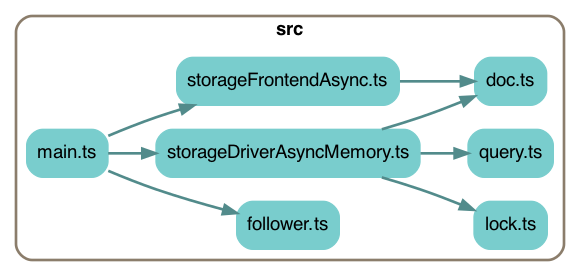
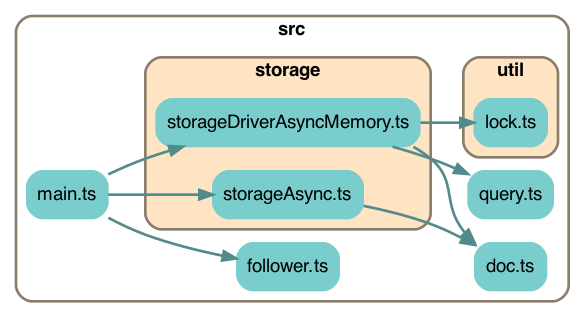
rearrange files into folders; finish renaming frontend to just Storage

diff --git a/src/follower.ts b/src/follower.ts
@@ -7,11 +7,11 @@ import {
 import {
     FollowerState,
     IFollower,
-    IStorageFrontendAsync
+    IStorageAsync
 } from './types/storageTypes';
 import { HistoryMode } from './types/queryTypes';
 
-import { makeDebug } from './log';
+import { makeDebug } from './util/log';
 import chalk from 'chalk';
 let debug = makeDebug(chalk.magentaBright('                  [follower]'));
 let debug2 = (blocking: boolean, ...args: any[]) => {
@@ -42,7 +42,7 @@ is called, and it stays there forever.
 */
 
 export interface FollowerOpts {
-    storageFrontend: IStorageFrontendAsync,
+    storage: IStorageAsync,
     onDoc: SyncOrAsyncCallback<Doc | null>,
     historyMode: HistoryMode,
     batchSize?: number,  // default 20
@@ -66,7 +66,7 @@ export let addFollower = async (opts: FollowerOpts): Promise<Follower> => {
 
 export class Follower implements IFollower {
     _state: FollowerState = 'sleeping';
-    _storageFrontend: IStorageFrontendAsync;
+    _storage: IStorageAsync;
     _onDoc: SyncOrAsyncCallback<Doc | null>;  // null means idle
     _lastProcessedIndex: number = -1;
     _batchSize: number;
@@ -80,15 +80,15 @@ export class Follower implements IFollower {
         //     let myFollower = new Follower({ ... opts ... });
         //     await myFollower.hatch();  // it needs a chance to do some async stuff
 
-        this._storageFrontend = opts.storageFrontend;
+        this._storage = opts.storage;
         this._onDoc = opts.onDoc;
         this._batchSize = opts.batchSize ?? 20;
         this._historyMode = opts.historyMode,
         this.blocking = opts.blocking ?? false;
 
         // Register with the storage.  it will wake us when there's new docs to process.
-        debug2(this.blocking, 'constructor: registering with storageFrontend');
-        this._storageFrontend.followers.add(this);
+        debug2(this.blocking, 'constructor: registering with storage');
+        this._storage.followers.add(this);
 
         // TODO: when adding a follower, it needs to wake up by default
         // so it can catch up, in case it started at zero.
@@ -131,7 +131,7 @@ export class Follower implements IFollower {
 
         // try to get some docs
         debug2(this.blocking, `    getting batch of up to ${this._batchSize} docs`);
-        let docs = await this._storageFrontend.getDocsSinceLocalIndex(this._historyMode, this._lastProcessedIndex + 1, this._batchSize);
+        let docs = await this._storage.getDocsSinceLocalIndex(this._historyMode, this._lastProcessedIndex + 1, this._batchSize);
         debug2(this.blocking, `    ...got ${docs.length} doc in this batch query`);
 
         // process the docs, if we got any
@@ -179,8 +179,8 @@ export class Follower implements IFollower {
         debug2(this.blocking, 'close()');
         this._state = 'closed';
         // unregister from the storage
-        debug2(this.blocking, '    unregistering from storageFrontend');
-        this._storageFrontend.followers.delete(this);
+        debug2(this.blocking, '    unregistering from storage');
+        this._storage.followers.delete(this);
         // TODO: don't tell our callback that we're idle, I guess?
     }
 }

diff --git a/src/main.ts b/src/main.ts
@@ -1,21 +1,20 @@
 import { AuthorKeypair, Doc } from './types/docTypes';
 
 import {
-    Follower,
     addFollower,
 } from './follower';
 import {
     StorageDriverAsyncMemory
-} from './storageDriverAsyncMemory';
+} from './storage/storageDriverAsyncMemory';
 import {
-    StorageFrontendAsync as StorageAsync
-} from './storageFrontendAsync';
-import { sleep } from './utils';
+    StorageAsync as StorageAsync
+} from './storage/storageAsync';
+import { sleep } from './util/utils';
 
 import {
     log,
     makeDebug,
-} from './log';
+} from './util/log';
 import chalk from 'chalk';
 let debug = makeDebug(chalk.greenBright('[main]'));
 let debugLazyFollower = makeDebug(chalk.magenta(' [main\'s lazy follower]'));
@@ -74,7 +73,7 @@ let main = async () => {
     debug('-----------\\')
     debug('adding lazy follower');
     let lazyFollower = await addFollower({
-        storageFrontend: storage,
+        storage: storage,
         onDoc: (doc: Doc | null) => {
             if (doc === null) {
                 debugLazyFollower('null -- I have become idle');
@@ -92,7 +91,7 @@ let main = async () => {
     debug('-----------\\')
     debug('adding blocking follower');
     let blockingFollower = await addFollower({
-        storageFrontend: storage,
+        storage: storage,
         onDoc: (doc: Doc | null) => {
             if (doc === null) {
                 debugBlockingFollower('null -- I have become idle');

diff --git a/src/storage/storageAsync.ts b/src/storage/storageAsync.ts
@@ -1,41 +1,41 @@
 import {
     Cmp,
-} from './types/utilTypes';
+} from '../types/utilTypes';
 import {
     AuthorKeypair,
     Doc,
     DocToSet,
     LocalIndex,
     Path,
-} from './types/docTypes';
+} from '../types/docTypes';
 import {
     HistoryMode,
     Query,
-} from './types/queryTypes';
+} from '../types/queryTypes';
 import {
     IFollower,
     IngestResult,
     IStorageDriverAsync,
-    IStorageFrontendAsync,
-} from './types/storageTypes';
+    IStorageAsync,
+} from '../types/storageTypes';
 
 import {
     sha256b32,
     now
-} from './utils';
+} from '../util/utils';
 import {
     docCompareForOverwrite,
     docIsValid,
     signDoc
-} from './doc';
+} from '../doc';
 
-import { makeDebug } from './log';
+import { makeDebug } from '../util/log';
 import chalk from 'chalk';
-let debug = makeDebug(chalk.yellow('      [frontend]'));
+let debug = makeDebug(chalk.yellow('      [storage]'));
 
 //================================================================================
 
-export class StorageFrontendAsync implements IStorageFrontendAsync {
+export class StorageAsync implements IStorageAsync {
 
     // Followers
     followers: Set<IFollower> = new Set();

diff --git a/src/storage/storageDriverAsyncMemory.ts b/src/storage/storageDriverAsyncMemory.ts
@@ -2,23 +2,23 @@ import {
     Doc,
     LocalIndex,
     Path
-} from "./types/docTypes";
+} from "../types/docTypes";
 import {
     Query
-} from "./types/queryTypes";
+} from "../types/queryTypes";
 import {
     IStorageDriverAsync as IStorageDriverAsync
-} from "./types/storageTypes";
+} from "../types/storageTypes";
 
 import {
     combinePathAndAuthor,
     docComparePathThenNewestFirst
-} from "./doc";
-import { cleanUpQuery, docMatchesFilter } from './query';
-import { Lock } from './lock';
-import { keyComparer } from './utils';
+} from "../doc";
+import { cleanUpQuery, docMatchesFilter } from '../query';
+import { Lock } from '../util/lock';
+import { keyComparer } from '../util/utils';
 
-import { makeDebug } from './log';
+import { makeDebug } from '../util/log';
 import chalk from 'chalk';
 let debug = makeDebug(chalk.cyan('            [driver]'));
 

diff --git a/src/types/storageTypes.ts b/src/types/storageTypes.ts
@@ -12,7 +12,7 @@ import {
 
 import {
     Lock,
-} from '../lock';
+} from '../util/lock';
 
 //================================================================================
 
@@ -24,7 +24,7 @@ export interface IFollower {
     close(): void;
 }
 
-export interface IStorageFrontendAsync {
+export interface IStorageAsync {
     //--------------------------------------------------
     // CALLBACKS AND FOLLOWERS
 

diff --git a/src/doc.ts b/src/doc.ts
@@ -9,9 +9,9 @@ import {
 import {
     arrayCompare,
     fakeUuid,
-} from './utils';
+} from './util/utils';
 
-import { makeDebug } from './log';
+import { makeDebug } from './util/log';
 import chalk from 'chalk';
 let debug = makeDebug(chalk.white('                                 [doc]'));
 

diff --git a/src/query.ts b/src/query.ts
@@ -9,7 +9,7 @@ import {
 
 import {
     deepEqual,
-} from './utils';
+} from './util/utils';
 
 //================================================================================ 
 

diff --git a/src/util/utils.ts b/src/util/utils.ts
@@ -1,6 +1,6 @@
 import {
     Cmp
-} from './types/utilTypes';
+} from '../types/utilTypes';
 
 import equal from 'fast-deep-equal';
 import clone from 'rfdc';

diff --git a/README.md b/README.md
@@ -11,11 +11,15 @@ Much of Earthstar is just faked here -- signing, document validity checking.
 
 A --> B means "A imports B".
 
-For readability this omits: `/test`, `/types`, `utils.ts`, and `log.ts`.
-
-Run `yarn depchart` to regenerate this.  You'll need graphviz installed.
+For readability this hides: `/test`, `/types`, `utils.ts`, and `log.ts`.
 
 ![](depchart/depchart.png)
+
+And here's `/types` by itself
+
+![](depchart/depchart-types.png)
+
+Run `yarn depchart` to regenerate this.  You'll need graphviz installed.
 
 ## Splitting `IStorage` into `Storage` and `StorageDriver` classes
 
